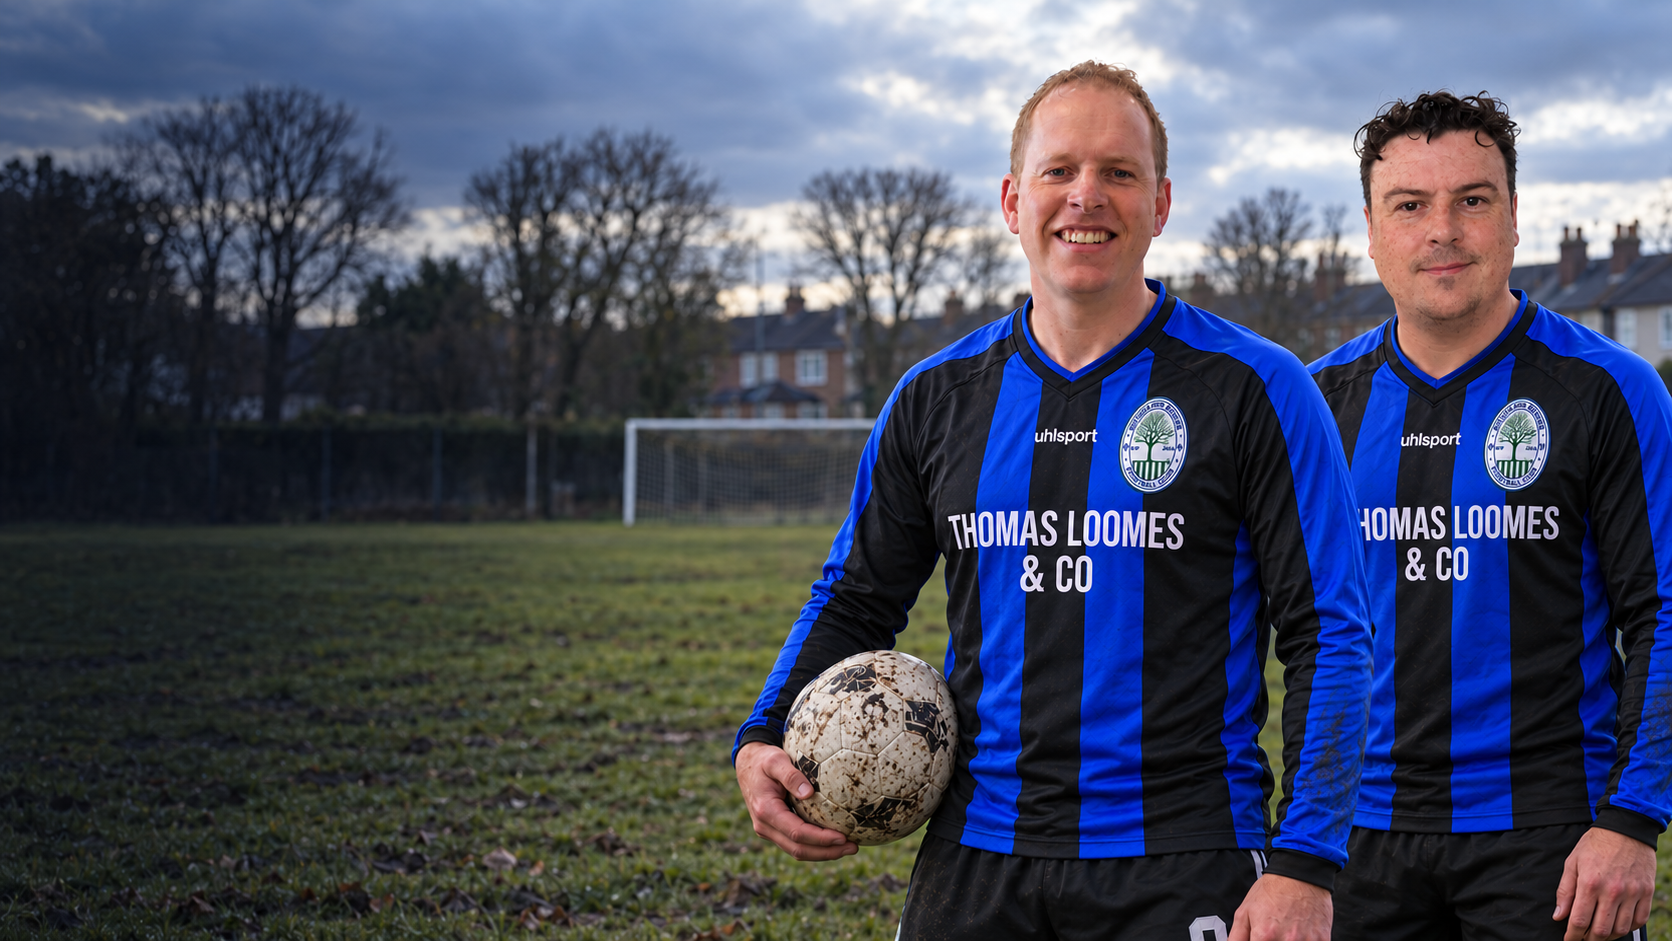
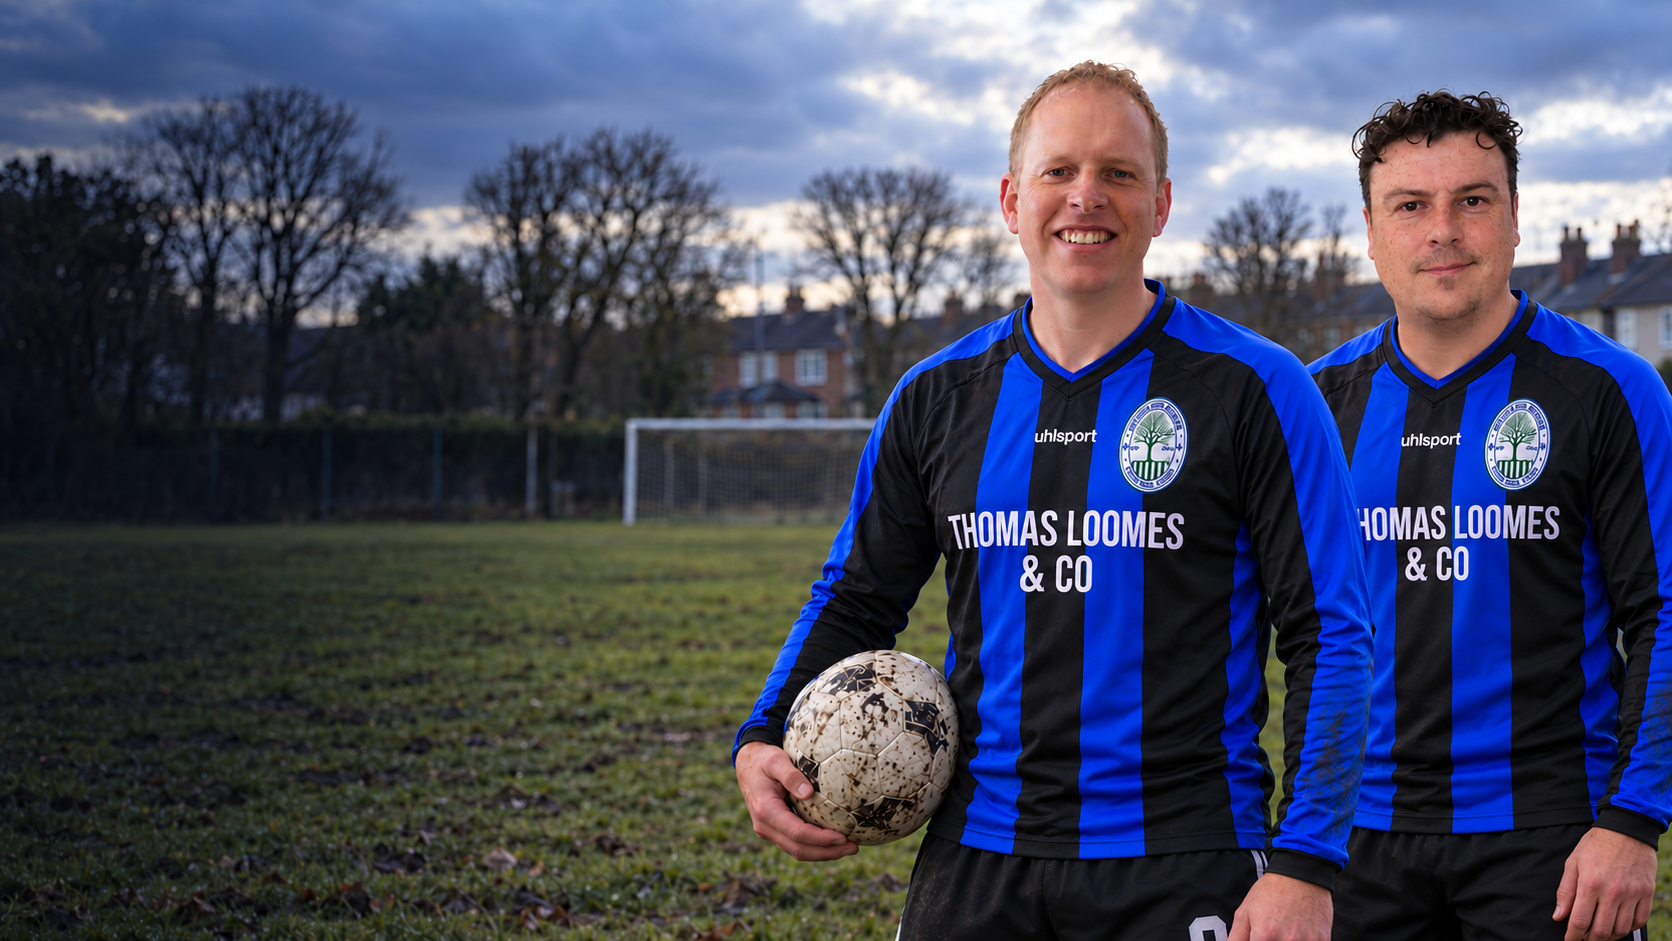
feat(football): identify Mac builds and refine broadcast presentation

diff --git a/games/beechlawn_rovers/tools/capture_native.py b/games/beechlawn_rovers/tools/capture_native.py
@@ -69,7 +69,7 @@ def run_bounded(command, env, deadline, log, ready_files=()):
 def main():
     parser = argparse.ArgumentParser(description=__doc__)
     parser.add_argument('output', type=Path)
-    parser.add_argument('--review-mode', choices=['movement','throw','net','montage','attack_home','attack_away','keeper_home','keeper_away','cross_home','cross_away','header_close','chest_close','volley_close','half_volley_close','cross_driven_home','cross_driven_away','cross_lofted_home','cross_early_home','shot_finesse','shot_power','shot_low'], help='Capture a native moving repair review')
+    parser.add_argument('--review-mode', choices=['presentation','movement','throw','net','montage','attack_home','attack_away','keeper_home','keeper_away','cross_home','cross_away','header_close','chest_close','volley_close','half_volley_close','cross_driven_home','cross_driven_away','cross_lofted_home','cross_early_home','shot_finesse','shot_power','shot_low'], help='Capture a native moving repair review')
     parser.add_argument('--match',action='store_true',help='Capture the actual 22-player match and broadcast camera')
     parser.add_argument('--players', nargs='+', choices=['shane','john','des','referee','away_keeper','paddy'],
                         default=['shane','john','des','referee'])
@@ -136,7 +136,7 @@ def main():
                        '--audio-driver','Dummy']
             if linux:
                 command += ['--display-driver','x11','--rendering-driver','vulkan']
-            command += (['--script','res://scripts/review_native_repairs.gd' if args.review_mode else 'res://scripts/review_native_match.gd'] if args.match else ['res://scenes/review/shane_asset_review.tscn'])
+            command += (['--script',('res://scripts/review_broadcast_ui.gd' if args.review_mode == 'presentation' else 'res://scripts/review_native_repairs.gd') if args.review_mode else 'res://scripts/review_native_match.gd'] if args.match else ['res://scenes/review/shane_asset_review.tscn'])
             command += ['--',
                 '--capture-dir='+str(args.output),'--player='+player,'--view='+view,
                 '--lighting='+args.lighting,'--sky='+args.sky,'--clean=1']

diff --git a/games/beechlawn_rovers/tools/stamp_build.py b/games/beechlawn_rovers/tools/stamp_build.py
@@ -1,0 +1,16 @@
+#!/usr/bin/env python3
+"""Stamp packaging time and full source identity before Godot export."""
+import argparse
+from datetime import datetime, timezone
+import json
+from pathlib import Path
+parser = argparse.ArgumentParser(description=__doc__)
+parser.add_argument('--source', required=True)
+args = parser.parse_args()
+if len(args.source) != 40 or any(c not in '0123456789abcdef' for c in args.source):
+    parser.error('Source must be a full lowercase Git SHA')
+path = Path(__file__).resolve().parents[1] / 'data/build_info.json'
+data = json.loads(path.read_text())
+data.update(source_sha=args.source, packaged_utc=datetime.now(timezone.utc).strftime('%Y-%m-%d %H:%M UTC'))
+path.write_text(json.dumps(data, indent=2)+'\n')
+print(json.dumps(data))

diff --git a/games/beechlawn_rovers/docs/mac_playtest_improvements.md b/games/beechlawn_rovers/docs/mac_playtest_improvements.md
@@ -1,0 +1,41 @@
+# Approved Mac playtest improvements
+
+Owner approval: implement all five bundles, free/original assets, keyboard,
+three-minute 11v11, Mac only. Latest installed build is unknown. Music plays
+only in menus/intro; match has natural sounds. Automatic goals/major-incident
+replays run at natural stoppages and are skippable. Wrestling is untouched.
+
+1. **Build/presentation** (BR-024/025, in progress): visible v0.2.0, source SHA
+   and packaging UTC; remove promotional/name captions; photographic Murray
+   and owner Denham artwork; consistent blue scoreboard/venue/team/referee
+   graphics; lower initial goal shot and grazing puddle shot.
+2. **Movement/defending/keepers** (BR-002/007/009/021): shared arm gait,
+   visible contact-timed standing tackle F, committed slide G, Ctrl jockey,
+   J contain, H teammate pressure. Original directional save/catch/high-claim
+   clips with legal physical glove contact and recovery.
+3. **Attacks/set pieces** (BR-005/006/008/012/019): varied powerful elevated
+   shots, natural wide play/cross-to-header/volley, short/long restarts,
+   direct free kicks with legal walls, varied penalties with honest keepers.
+4. **Pitch/net/audio** (BR-023/024): terrain-aligned instanced grass with
+   mud/water exclusions and distance budgets; anchored visible net impact;
+   original/licensed music and match/UI sounds with separate persisted buses.
+5. **Celebrations/results/replays** (BR-026/027): goals, winners/draws,
+   handshakes, Rematch/Title; bounded 12-second 30Hz pose/ball history, up to
+   three bookmarks below 64MiB, collision-free ghosts, exact restart restore.
+
+Each bundle requires mechanic regression checks, native Forward+ visual
+inspection, strict natural AI chance checks and a verified universal Mac
+release. Software Vulkan captures verify appearance, not M1 performance.
+Keep 1080p60 performance and owner playtest acceptance open until measured.
+
+Use typed match events for audio/presentation/replay, separating football
+simulation and restart decisions from presentation. No forced goals, quotas,
+team-specific boosts or copied PES assets. Existing 25 IDs remain stable;
+BR-026 and BR-027 are appended (27 total).
+
+## Evidence and status
+
+- Baseline: ground/aerial controls, cross/header/volley, tackling and physical
+  net contact tests pass, but do not establish visible match quality.
+- Bundle 1: implementation in progress; evidence/release pending.
+- Bundles 2–5: approved, pending implementation and acceptance.

diff --git a/games/beechlawn_rovers/docs/backlog.md b/games/beechlawn_rovers/docs/backlog.md
@@ -10,6 +10,13 @@ items, use the archived references and skill workflow in
 [`art_reference_implementation_plan.md`](art_reference_implementation_plan.md)
 and [`../references/README.md`](../references/README.md) before implementation.
 
+## Approved Mac playtest improvement pass — 23 October 2026
+
+27 primary items retain their original IDs. The five delivery bundles, evidence
+requirements and remaining hardware gates are tracked in
+[mac_playtest_improvements.md](mac_playtest_improvements.md). Existing mechanical
+smoke passes do not close the owner's visible match-quality findings.
+
 ## Current state
 
 Delivery is **Mac-only** as of 2026-10-22. The owner retired the football Web
@@ -1036,6 +1043,15 @@ goals, fouls, offside, cards, substitutions, half-time and full-time.
 **P5 exit check:** the complete match is legible and attractive at broadcast
 distance, stays within the Mac frame-time budget, and can be built/released
 without touching Aegis artifacts.
+
+- [ ] **BR-026 — Goal and full-time presentation**
+  Scorer/teammate reactions, own goals, winner/draw treatment, handshakes and
+  a usable Rematch/Title results screen. Original shared animations; skippable,
+  clock/rules isolated and valid with reduced teams.
+- [ ] **BR-027 — Incident replays**
+  Collision-free ghost playback from bounded pose/ball snapshots. Goals and
+  major incidents replay automatically at natural stoppages; Space/Enter skips.
+  Restore the exact pending restart without duplicate events or scores.
 
 ## Risks and scope guardrails
 

diff --git a/games/beechlawn_rovers/docs/art_briefs/mac_presentation_2026_10_23/brief.md b/games/beechlawn_rovers/docs/art_briefs/mac_presentation_2026_10_23/brief.md
@@ -1,0 +1,15 @@
+# Mac presentation pass — bundle 1
+
+Original title portraits were edited with GPT Images against the archived David
+Murray and owner David Denham photos; updated provenance accompanies the asset.
+Native menu removes player captions and promotional slogans, retains centred
+uhlsport / THOMAS LOOMES & CO / original oval crest and adds build identity.
+Blue plate styling is shared by scoreboard, venue/team names and referee;
+other montage lower thirds are hidden. Full lineup cards remain.
+
+Opening goal camera is 0.55–0.60m high; puddle camera 0.20–0.23m with a grazing
+view. Native Forward+ capture inspected title, HUD and all caption types.
+Intro/title/HUD runtime tests pass. Software Vulkan llvmpipe, 960×540; these
+stills do not certify M1 performance, likeness approval or environment realism.
+Packaging stamps full source SHA and actual UTC; development labels explicitly
+say un-packaged. Bundles 2–5 remain approved work.

diff --git a/games/beechlawn_rovers/docs/release_notes.md b/games/beechlawn_rovers/docs/release_notes.md
@@ -1,3 +1,15 @@
+# Beechlawn Rovers 27 — v0.2.0
+
+Mac-only presentation update: build version/source/packaging UTC on title,
+photographic Murray/Denham artwork, promotional/name captions removed, matching
+blue scoreboard and venue/team/referee captions, lower goal/puddle intro views.
+
+Title/intro/HUD smoke checks and native Forward+ software captures pass.
+Gameplay improvements from the latest Mac playtest remain in progress; this
+release does not claim to close those findings or M1 performance acceptance.
+
+---
+
 # Advanced shots and cross variants
 
 In open play, hold Z/X/V when starting a Space charge for finesse/power/low
